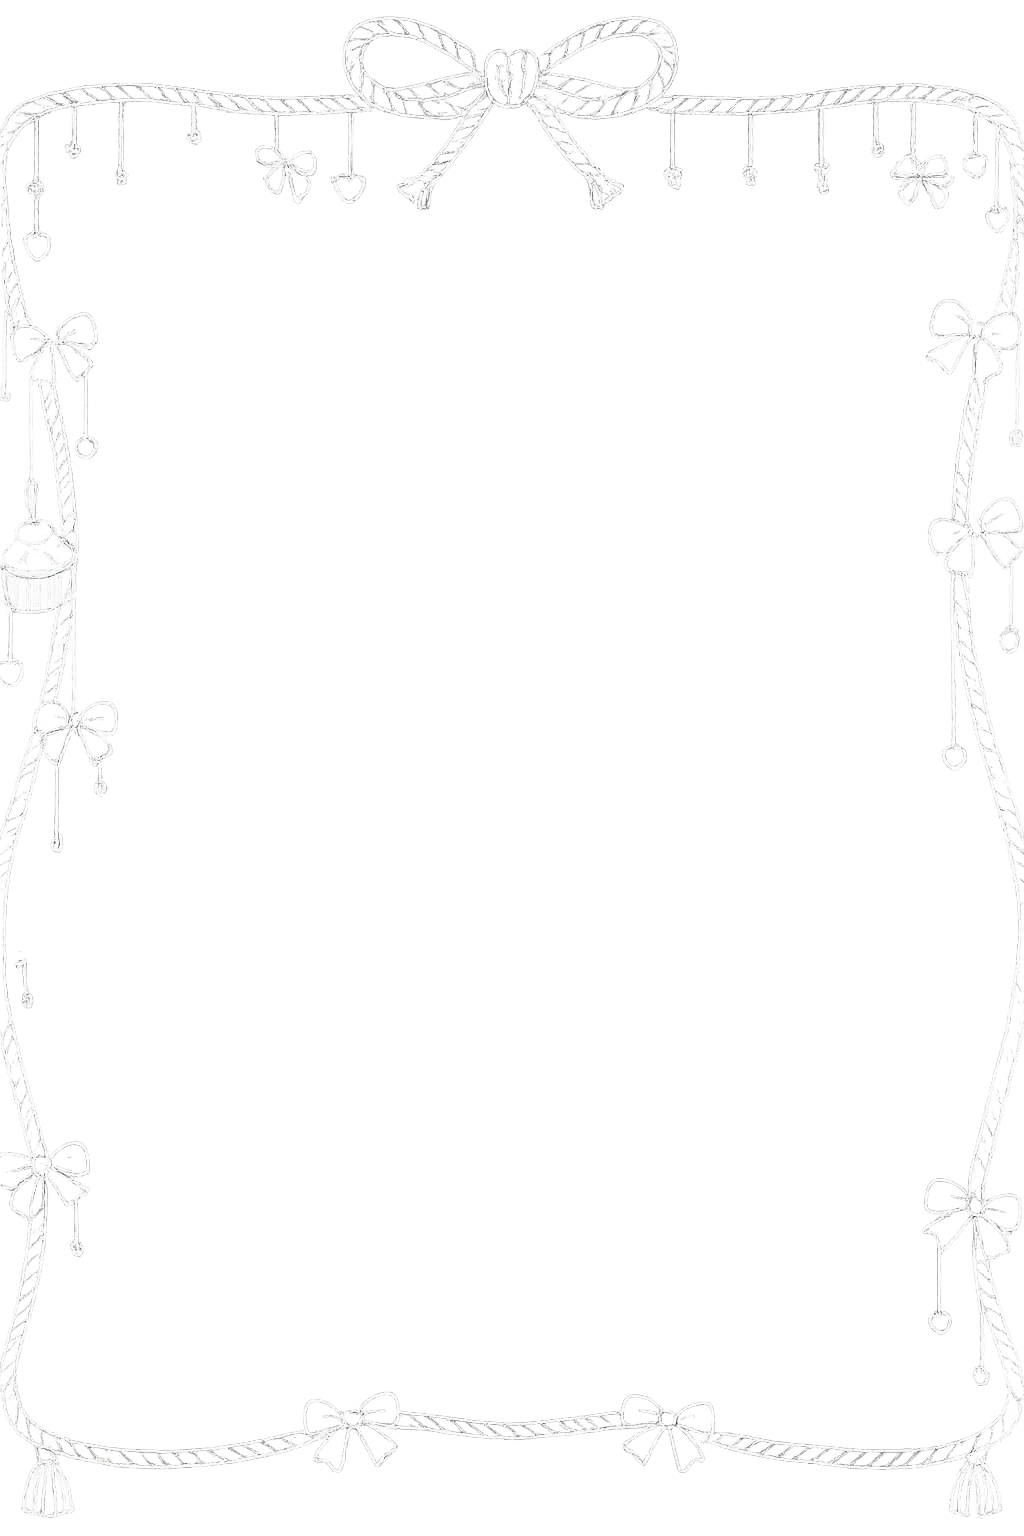
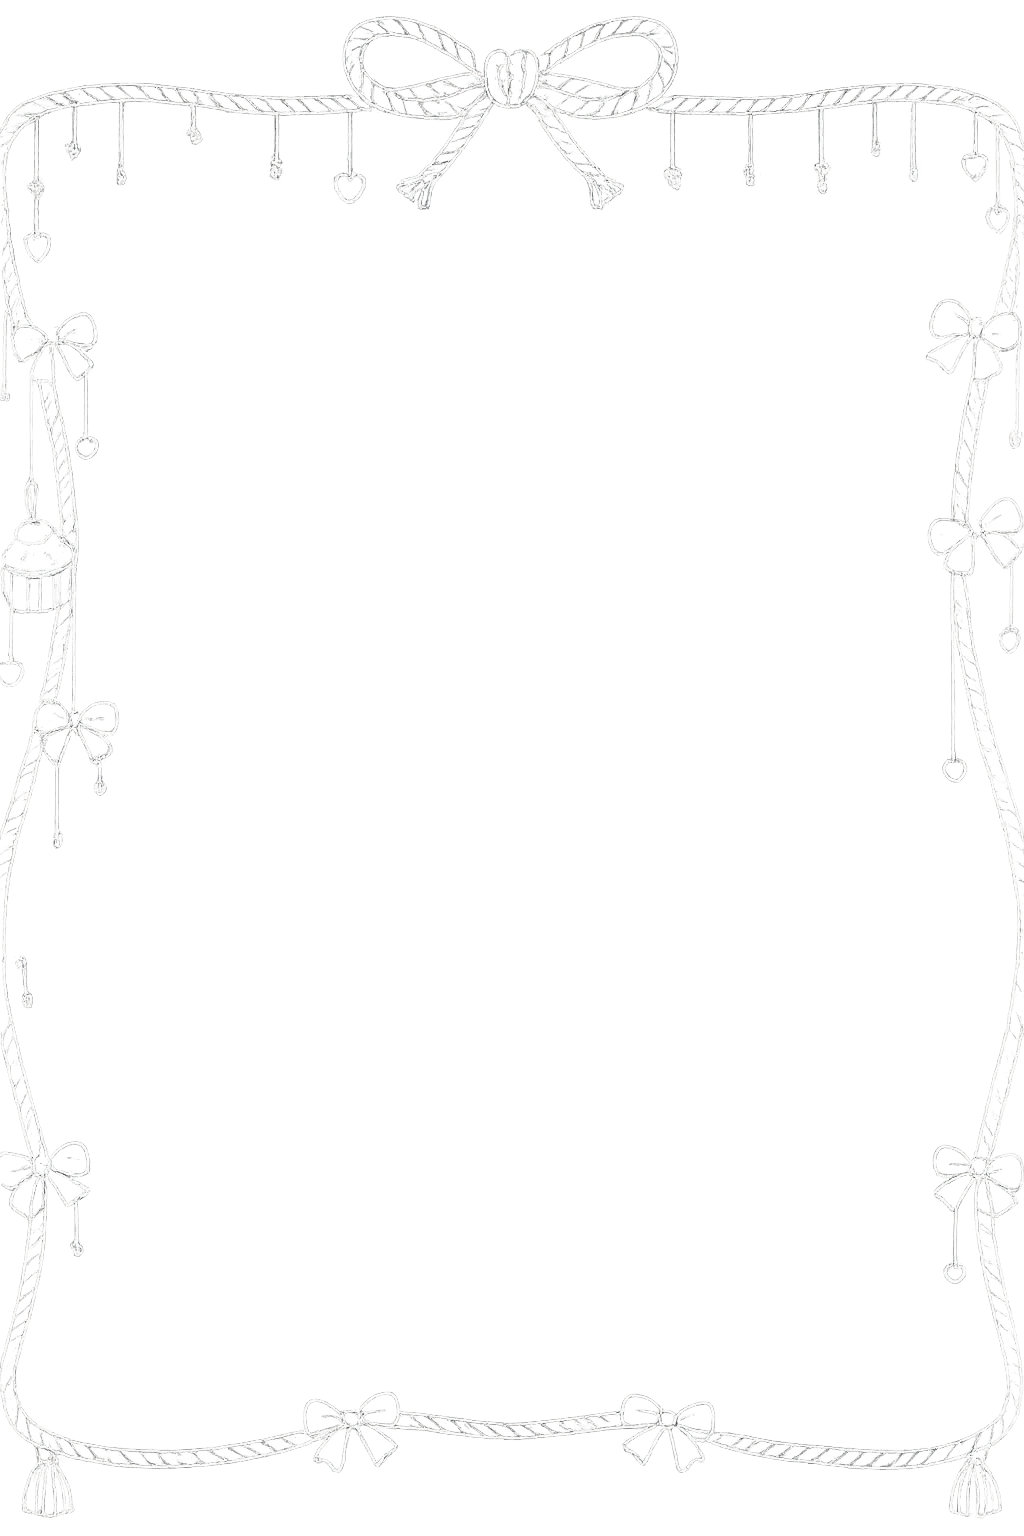
Deploy

diff --git a/css/styles.css b/css/styles.css
@@ -73,7 +73,7 @@ body {
 }
 
 .swiper-container-aux {
-    background-image: url('../img/soga-8.png');
+    background-image: url('../img/soga-7.png');
     background-position: center;
     background-size: contain;
     min-height: 30rem;
